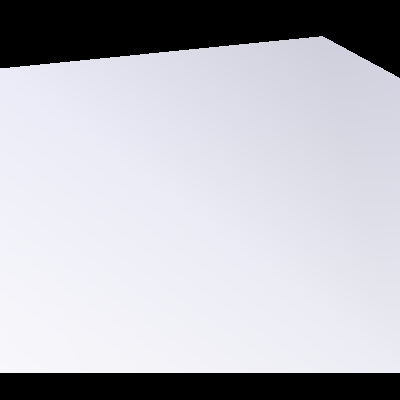
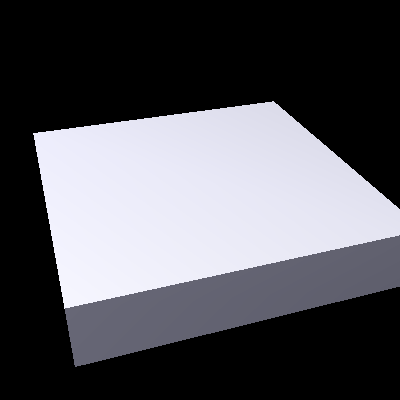
fix bug where box was double-length

diff --git a/physical/__init__.py b/physical/__init__.py
@@ -770,48 +770,42 @@ class _Box(object):
         # glut.glutSolidCube(1)
         gl.glBegin(gl.GL_QUADS)
         gl.glNormal3f(-1,0,0)
-        gl.glVertex3f(-self.wx.v, -self.wy.v,  self.wz.v);
-        gl.glVertex3f(-self.wx.v,  self.wy.v,  self.wz.v);
-        gl.glVertex3f(-self.wx.v,  self.wy.v, -self.wz.v);
-        gl.glVertex3f(-self.wx.v, -self.wy.v, -self.wz.v);
+        gl.glVertex3f(-0.5*self.wx.v, -0.5*self.wy.v,  0.5*self.wz.v);
+        gl.glVertex3f(-0.5*self.wx.v,  0.5*self.wy.v,  0.5*self.wz.v);
+        gl.glVertex3f(-0.5*self.wx.v,  0.5*self.wy.v, -0.5*self.wz.v);
+        gl.glVertex3f(-0.5*self.wx.v, -0.5*self.wy.v, -0.5*self.wz.v);
 
         gl.glNormal3f(1,0,0)
-        gl.glVertex3f(self.wx.v, -self.wy.v, -self.wz.v);
-        gl.glVertex3f(self.wx.v,  self.wy.v, -self.wz.v);
-        gl.glVertex3f(self.wx.v,  self.wy.v,  self.wz.v);
-        gl.glVertex3f(self.wx.v, -self.wy.v,  self.wz.v);
+        gl.glVertex3f(0.5*self.wx.v, -0.5*self.wy.v, -0.5*self.wz.v);
+        gl.glVertex3f(0.5*self.wx.v,  0.5*self.wy.v, -0.5*self.wz.v);
+        gl.glVertex3f(0.5*self.wx.v,  0.5*self.wy.v,  0.5*self.wz.v);
+        gl.glVertex3f(0.5*self.wx.v, -0.5*self.wy.v,  0.5*self.wz.v);
 
         gl.glNormal3f(0,1,0)
-        gl.glVertex3f( self.wx.v, self.wy.v, -self.wz.v);
-        gl.glVertex3f(-self.wx.v, self.wy.v, -self.wz.v);
-        gl.glVertex3f(-self.wx.v, self.wy.v,  self.wz.v);
-        gl.glVertex3f( self.wx.v, self.wy.v,  self.wz.v);
+        gl.glVertex3f( 0.5*self.wx.v, 0.5*self.wy.v, -0.5*self.wz.v);
+        gl.glVertex3f(-0.5*self.wx.v, 0.5*self.wy.v, -0.5*self.wz.v);
+        gl.glVertex3f(-0.5*self.wx.v, 0.5*self.wy.v,  0.5*self.wz.v);
+        gl.glVertex3f( 0.5*self.wx.v, 0.5*self.wy.v,  0.5*self.wz.v);
 
         gl.glNormal3f(0,-1,0)
-        gl.glVertex3f( self.wx.v, -self.wy.v,  self.wz.v);
-        gl.glVertex3f(-self.wx.v, -self.wy.v,  self.wz.v);
-        gl.glVertex3f(-self.wx.v, -self.wy.v, -self.wz.v);
-        gl.glVertex3f( self.wx.v, -self.wy.v, -self.wz.v);
+        gl.glVertex3f( 0.5*self.wx.v, -0.5*self.wy.v,  0.5*self.wz.v);
+        gl.glVertex3f(-0.5*self.wx.v, -0.5*self.wy.v,  0.5*self.wz.v);
+        gl.glVertex3f(-0.5*self.wx.v, -0.5*self.wy.v, -0.5*self.wz.v);
+        gl.glVertex3f( 0.5*self.wx.v, -0.5*self.wy.v, -0.5*self.wz.v);
 
         gl.glNormal3f(0,0,1)
-        gl.glVertex3f( self.wx.v,  self.wy.v,  self.wz.v);
-        gl.glVertex3f(-self.wx.v,  self.wy.v,  self.wz.v);
-        gl.glVertex3f(-self.wx.v, -self.wy.v,  self.wz.v);
-        gl.glVertex3f( self.wx.v, -self.wy.v,  self.wz.v);
+        gl.glVertex3f( 0.5*self.wx.v,  0.5*self.wy.v,  0.5*self.wz.v);
+        gl.glVertex3f(-0.5*self.wx.v,  0.5*self.wy.v,  0.5*self.wz.v);
+        gl.glVertex3f(-0.5*self.wx.v, -0.5*self.wy.v,  0.5*self.wz.v);
+        gl.glVertex3f( 0.5*self.wx.v, -0.5*self.wy.v,  0.5*self.wz.v);
 
         gl.glNormal3f(0,0,-1)
-        gl.glVertex3f( self.wx.v, -self.wy.v, -self.wz.v);
-        gl.glVertex3f(-self.wx.v, -self.wy.v, -self.wz.v);
-        gl.glVertex3f(-self.wx.v,  self.wy.v, -self.wz.v);
-        gl.glVertex3f( self.wx.v,  self.wy.v, -self.wz.v);
+        gl.glVertex3f( 0.5*self.wx.v, -0.5*self.wy.v, -0.5*self.wz.v);
+        gl.glVertex3f(-0.5*self.wx.v, -0.5*self.wy.v, -0.5*self.wz.v);
+        gl.glVertex3f(-0.5*self.wx.v,  0.5*self.wy.v, -0.5*self.wz.v);
+        gl.glVertex3f( 0.5*self.wx.v,  0.5*self.wy.v, -0.5*self.wz.v);
 
         gl.glEnd()
-        # gl.glBegin(gl.GL_POLYGON)
-        # gl.glVertex3f( self.wx.v, -self.wy.v, -self.wz.v);
-        # gl.glVertex3f(-self.wx.v, -self.wy.v, -self.wz.v);
-        # gl.glVertex3f(-self.wx.v,  self.wy.v, -self.wz.v);
-        # gl.glVertex3f( self.wx.v,  self.wy.v, -self.wz.v);
-        # gl.glEnd()
         gl.glPopMatrix()
     def __str__(self):
         return 'box(%s, %s, %s, %s)' % (self.pos, self.wx, self.wy, self.wz)
